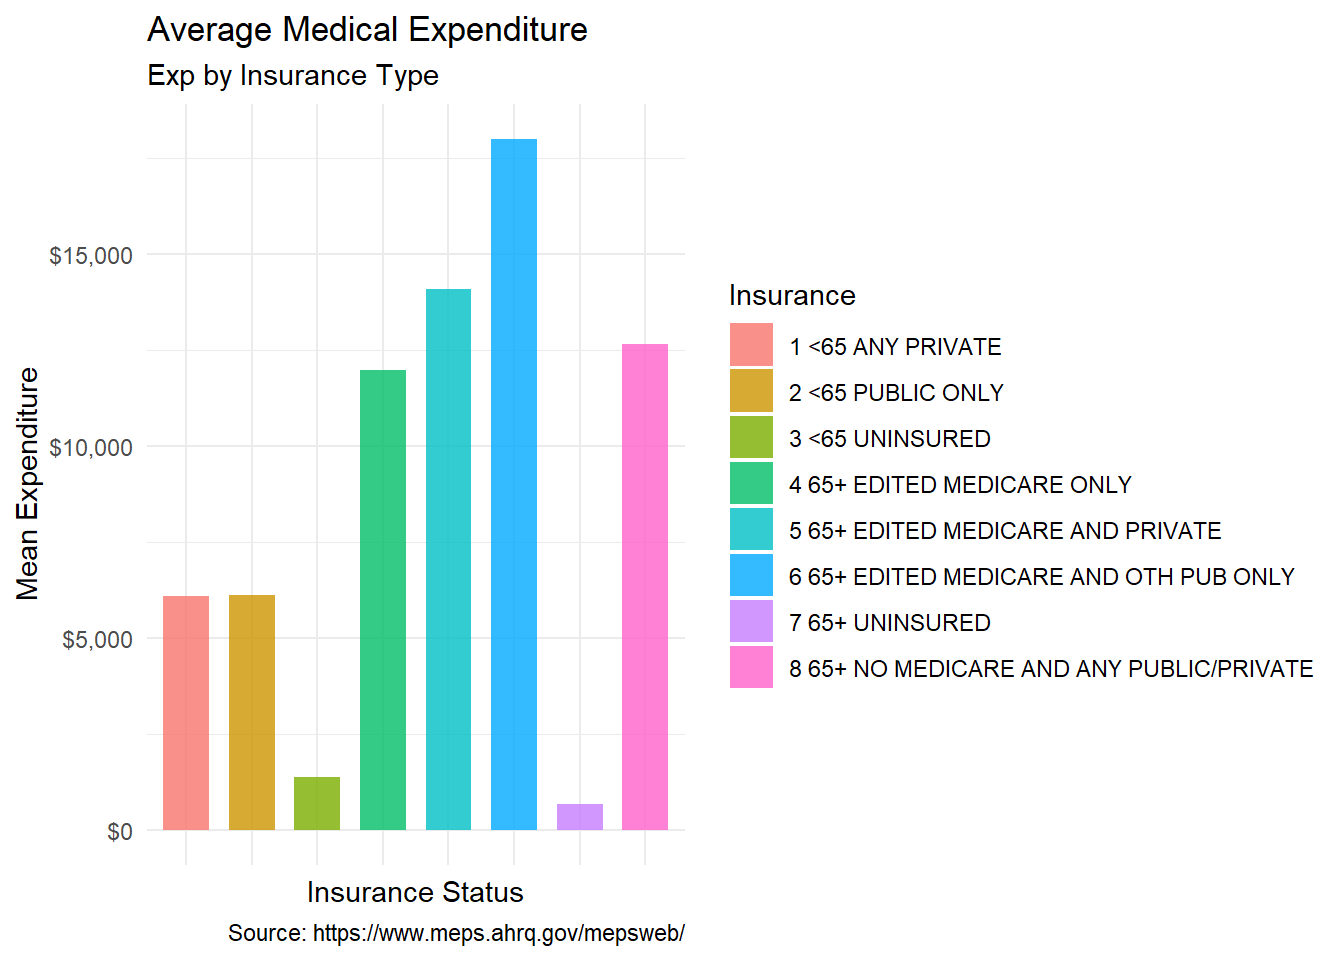
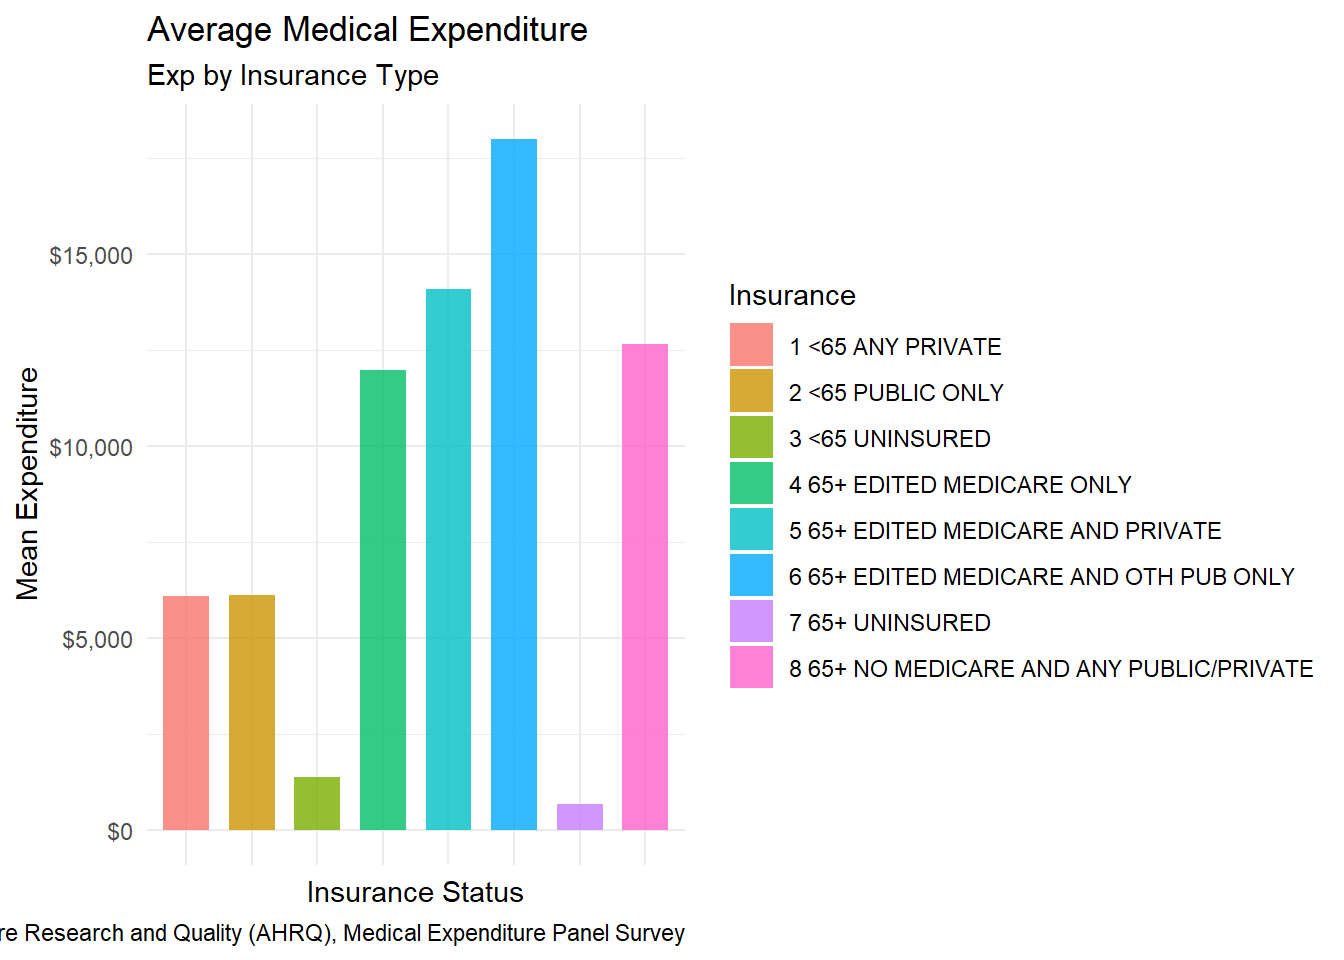
Render Again
The rendering problem on my PC is caused by UTF-8 setting. After solving it, I rendered again to generate a new "index.html" and pushed it to my branch on GitHub.

Changed region(s): [[0.0, 0.9375, 0.5, 1.0]]

diff --git a/index.html b/index.html
@@ -2,7 +2,7 @@
 <html xmlns="http://www.w3.org/1999/xhtml" lang="en" xml:lang="en"><head>
 
 <meta charset="utf-8">
-<meta name="generator" content="quarto-1.8.24">
+<meta name="generator" content="quarto-1.8.25">
 
 <meta name="viewport" content="width=device-width, initial-scale=1.0, user-scalable=yes">
 
@@ -67,7 +67,7 @@ pre > code.sourceCode > span > a:first-child::before { text-decoration: underlin
 <script src="index_files/libs/quarto-html/tippy.umd.min.js"></script>
 <script src="index_files/libs/quarto-html/anchor.min.js"></script>
 <link href="index_files/libs/quarto-html/tippy.css" rel="stylesheet">
-<link href="index_files/libs/quarto-html/quarto-syntax-highlighting-dc55a5b9e770e841cd82e46aadbfb9b0.css" rel="stylesheet" id="quarto-text-highlighting-styles">
+<link href="index_files/libs/quarto-html/quarto-syntax-highlighting-7b89279ff1a6dce999919e0e67d4d9ec.css" rel="stylesheet" id="quarto-text-highlighting-styles">
 <script src="index_files/libs/bootstrap/bootstrap.min.js"></script>
 <link href="index_files/libs/bootstrap/bootstrap-icons.css" rel="stylesheet">
 <link href="index_files/libs/bootstrap/bootstrap-9e3ffae467580fdb927a41352e75a2e0.min.css" rel="stylesheet" append-hash="true" id="quarto-bootstrap" data-mode="light">
@@ -117,7 +117,9 @@ pre > code.sourceCode > span > a:first-child::before { text-decoration: underlin
 <span id="cb1-8"><a href="#cb1-8" aria-hidden="true" tabindex="-1"></a></span>
 <span id="cb1-9"><a href="#cb1-9" aria-hidden="true" tabindex="-1"></a>data <span class="ot">&lt;-</span> <span class="fu">read.csv</span>(<span class="st">"C:/Users/Whatsername/Desktop/Intro to Data Science/assignment04/MEPS2022.csv"</span>)</span>
 <span id="cb1-10"><a href="#cb1-10" aria-hidden="true" tabindex="-1"></a></span>
-<span id="cb1-11"><a href="#cb1-11" aria-hidden="true" tabindex="-1"></a>data <span class="ot">&lt;-</span> <span class="fu">select</span>(data, AGE22X, TOTEXP22, RACETHX, HWELLSPK, SEX, INSURC22, OBTOTV22, ERTOT22)</span></code></pre></div><button title="Copy to Clipboard" class="code-copy-button"><i class="bi"></i></button></div>
+<span id="cb1-11"><a href="#cb1-11" aria-hidden="true" tabindex="-1"></a><span class="co">#Due to the federal government shutdown, the data's URL is currently inaccessible. So, we set up totally identical folder paths on our respective PCs to allow the code to load the same csv file. (Qingfeng Yu, Oct 5)</span></span>
+<span id="cb1-12"><a href="#cb1-12" aria-hidden="true" tabindex="-1"></a></span>
+<span id="cb1-13"><a href="#cb1-13" aria-hidden="true" tabindex="-1"></a>data <span class="ot">&lt;-</span> <span class="fu">select</span>(data, AGE22X, TOTEXP22, RACETHX, HWELLSPK, SEX, INSURC22, OBTOTV22, ERTOT22, INDCAT53)</span></code></pre></div><button title="Copy to Clipboard" class="code-copy-button"><i class="bi"></i></button></div>
 </div>
 <div class="cell">
 <div class="code-copy-outer-scaffold"><div class="sourceCode cell-code" id="cb2"><pre class="sourceCode r code-with-copy"><code class="sourceCode r"><span id="cb2-1"><a href="#cb2-1" aria-hidden="true" tabindex="-1"></a><span class="co"># 1st visualization</span></span>
@@ -132,7 +134,7 @@ pre > code.sourceCode > span > a:first-child::before { text-decoration: underlin
 <span id="cb2-10"><a href="#cb2-10" aria-hidden="true" tabindex="-1"></a>             <span class="fu">labs</span>(<span class="at">x =</span> <span class="st">"Insurance Status"</span>, <span class="at">y =</span> <span class="st">"Mean Expenditure"</span>, <span class="at">fill =</span> <span class="st">"Insurance"</span>, </span>
 <span id="cb2-11"><a href="#cb2-11" aria-hidden="true" tabindex="-1"></a>                  <span class="at">title =</span> <span class="st">"Average Medical Expenditure"</span>, </span>
 <span id="cb2-12"><a href="#cb2-12" aria-hidden="true" tabindex="-1"></a>                  <span class="at">subtitle =</span> <span class="st">"Exp by Insurance Type"</span>, </span>
-<span id="cb2-13"><a href="#cb2-13" aria-hidden="true" tabindex="-1"></a>                  <span class="at">caption =</span> <span class="st">"Source: https://www.meps.ahrq.gov/mepsweb/"</span>) <span class="sc">+</span> </span>
+<span id="cb2-13"><a href="#cb2-13" aria-hidden="true" tabindex="-1"></a>                  <span class="at">caption =</span> <span class="st">"Source: Agency for Healthcare Research and Quality (AHRQ), Medical Expenditure Panel Survey"</span>) <span class="sc">+</span> </span>
 <span id="cb2-14"><a href="#cb2-14" aria-hidden="true" tabindex="-1"></a>             <span class="fu">theme_minimal</span>() <span class="sc">+</span> </span>
 <span id="cb2-15"><a href="#cb2-15" aria-hidden="true" tabindex="-1"></a>  <span class="fu">theme</span>(<span class="at">axis.text.x =</span> <span class="fu">element_blank</span>())</span></code></pre></div><button title="Copy to Clipboard" class="code-copy-button"><i class="bi"></i></button></div>
 <div class="cell-output-display">
@@ -160,7 +162,7 @@ pre > code.sourceCode > span > a:first-child::before { text-decoration: underlin
 <span id="cb3-12"><a href="#cb3-12" aria-hidden="true" tabindex="-1"></a>       <span class="at">color =</span> <span class="st">"Sex"</span>, </span>
 <span id="cb3-13"><a href="#cb3-13" aria-hidden="true" tabindex="-1"></a>       <span class="at">title =</span> <span class="st">"#Medical Service visit by Age &amp; Sex"</span>, </span>
 <span id="cb3-14"><a href="#cb3-14" aria-hidden="true" tabindex="-1"></a>       <span class="at">subtitle =</span> <span class="st">"Avg. Exp indicated by size of points"</span>, </span>
-<span id="cb3-15"><a href="#cb3-15" aria-hidden="true" tabindex="-1"></a>       <span class="at">caption =</span> <span class="st">"Source: https://www.meps.ahrq.gov/mepsweb/"</span>) <span class="sc">+</span> </span>
+<span id="cb3-15"><a href="#cb3-15" aria-hidden="true" tabindex="-1"></a>       <span class="at">caption =</span> <span class="st">"Source: Agency for Healthcare Research and Quality (AHRQ), Medical Expenditure Panel Survey"</span>) <span class="sc">+</span> </span>
 <span id="cb3-16"><a href="#cb3-16" aria-hidden="true" tabindex="-1"></a>  <span class="fu">theme_minimal</span>()</span></code></pre></div><button title="Copy to Clipboard" class="code-copy-button"><i class="bi"></i></button></div>
 <div class="cell-output-display">
 <div>
@@ -198,7 +200,7 @@ pre > code.sourceCode > span > a:first-child::before { text-decoration: underlin
 <span id="cb4-23"><a href="#cb4-23" aria-hidden="true" tabindex="-1"></a>       <span class="at">fill =</span> <span class="st">"Race/Ethnicity"</span>,</span>
 <span id="cb4-24"><a href="#cb4-24" aria-hidden="true" tabindex="-1"></a>       <span class="at">title =</span> <span class="st">"Insurance Coverage by Race &amp; Age Group"</span>, </span>
 <span id="cb4-25"><a href="#cb4-25" aria-hidden="true" tabindex="-1"></a>       <span class="at">subtitle =</span> <span class="st">"Insurance including both Public and Private"</span>, </span>
-<span id="cb4-26"><a href="#cb4-26" aria-hidden="true" tabindex="-1"></a>       <span class="at">caption =</span> <span class="st">"Source: https://www.meps.ahrq.gov/mepsweb/"</span>) <span class="sc">+</span></span>
+<span id="cb4-26"><a href="#cb4-26" aria-hidden="true" tabindex="-1"></a>       <span class="at">caption =</span> <span class="st">"Source: Agency for Healthcare Research and Quality (AHRQ), Medical Expenditure Panel Survey"</span>) <span class="sc">+</span></span>
 <span id="cb4-27"><a href="#cb4-27" aria-hidden="true" tabindex="-1"></a>  <span class="fu">theme_minimal</span>() <span class="sc">+</span></span>
 <span id="cb4-28"><a href="#cb4-28" aria-hidden="true" tabindex="-1"></a>  <span class="fu">theme</span>(<span class="at">axis.text.x =</span> <span class="fu">element_blank</span>())</span></code></pre></div><button title="Copy to Clipboard" class="code-copy-button"><i class="bi"></i></button></div>
 <div class="cell-output-display">
@@ -211,6 +213,74 @@ pre > code.sourceCode > span > a:first-child::before { text-decoration: underlin
 </div>
 <p>Interpretation:</p>
 <p>For age above and under 65, we can see very different insurance coverage status. Asian people has the highest insurance coverage among people who are under 65, and Hispanic people has the lowest - this could be driven by average income and job characteristics. The distribution among people who are 65 and above is interesting: Asian people become the lowest insured, other races do not differ much. At age 65 and above, people generally become eligible for Medicare, which raises coverage across all groups, but the reverse trend for Asian is curious. In my opinion, this could be driven by large portion of foreign-born Asian seniors who might not be eligible for Medicare. While we need further investigation, it should raise alerts for policy makers - is the current Medicare eligibility really appropriate?</p>
+<div class="cell">
+<div class="code-copy-outer-scaffold"><div class="sourceCode cell-code" id="cb5"><pre class="sourceCode r code-with-copy"><code class="sourceCode r"><span id="cb5-1"><a href="#cb5-1" aria-hidden="true" tabindex="-1"></a><span class="co"># 4th visualization</span></span>
+<span id="cb5-2"><a href="#cb5-2" aria-hidden="true" tabindex="-1"></a></span>
+<span id="cb5-3"><a href="#cb5-3" aria-hidden="true" tabindex="-1"></a><span class="fu">library</span>(ggrepel)</span>
+<span id="cb5-4"><a href="#cb5-4" aria-hidden="true" tabindex="-1"></a></span>
+<span id="cb5-5"><a href="#cb5-5" aria-hidden="true" tabindex="-1"></a>visit_expense_by_job <span class="ot">&lt;-</span> data <span class="sc">|&gt;</span></span>
+<span id="cb5-6"><a href="#cb5-6" aria-hidden="true" tabindex="-1"></a>  dplyr<span class="sc">::</span><span class="fu">select</span>(AGE22X, INDCAT53, OBTOTV22, TOTEXP22) <span class="sc">|&gt;</span></span>
+<span id="cb5-7"><a href="#cb5-7" aria-hidden="true" tabindex="-1"></a>  <span class="fu">mutate</span>(</span>
+<span id="cb5-8"><a href="#cb5-8" aria-hidden="true" tabindex="-1"></a>    <span class="at">AGE22X   =</span> <span class="fu">ifelse</span>(AGE22X   <span class="sc">&lt;</span> <span class="dv">0</span>, <span class="cn">NA</span>, AGE22X),</span>
+<span id="cb5-9"><a href="#cb5-9" aria-hidden="true" tabindex="-1"></a>    <span class="at">INDCAT53 =</span> <span class="fu">ifelse</span>(INDCAT53 <span class="sc">&lt;</span> <span class="dv">0</span>, <span class="cn">NA</span>, INDCAT53),</span>
+<span id="cb5-10"><a href="#cb5-10" aria-hidden="true" tabindex="-1"></a>    <span class="at">OBTOTV22 =</span> <span class="fu">ifelse</span>(OBTOTV22 <span class="sc">&lt;</span> <span class="dv">0</span>, <span class="cn">NA</span>, OBTOTV22),</span>
+<span id="cb5-11"><a href="#cb5-11" aria-hidden="true" tabindex="-1"></a>    <span class="at">TOTEXP22 =</span> <span class="fu">ifelse</span>(TOTEXP22 <span class="sc">&lt;</span> <span class="dv">0</span>, <span class="cn">NA</span>, TOTEXP22),</span>
+<span id="cb5-12"><a href="#cb5-12" aria-hidden="true" tabindex="-1"></a>    <span class="at">age65_lbl =</span> <span class="fu">if_else</span>(AGE22X <span class="sc">&gt;=</span> <span class="dv">65</span>, <span class="st">"65+"</span>, <span class="st">"&lt;65"</span>)</span>
+<span id="cb5-13"><a href="#cb5-13" aria-hidden="true" tabindex="-1"></a>  ) <span class="sc">|&gt;</span></span>
+<span id="cb5-14"><a href="#cb5-14" aria-hidden="true" tabindex="-1"></a>  <span class="fu">filter</span>(<span class="sc">!</span><span class="fu">is.na</span>(INDCAT53), <span class="sc">!</span><span class="fu">is.na</span>(OBTOTV22), <span class="sc">!</span><span class="fu">is.na</span>(TOTEXP22), <span class="sc">!</span><span class="fu">is.na</span>(age65_lbl))</span>
+<span id="cb5-15"><a href="#cb5-15" aria-hidden="true" tabindex="-1"></a></span>
+<span id="cb5-16"><a href="#cb5-16" aria-hidden="true" tabindex="-1"></a>plot_data <span class="ot">&lt;-</span> visit_expense_by_job <span class="sc">|&gt;</span></span>
+<span id="cb5-17"><a href="#cb5-17" aria-hidden="true" tabindex="-1"></a>  <span class="fu">group_by</span>(age65_lbl, INDCAT53) <span class="sc">|&gt;</span></span>
+<span id="cb5-18"><a href="#cb5-18" aria-hidden="true" tabindex="-1"></a>  <span class="fu">summarise</span>(</span>
+<span id="cb5-19"><a href="#cb5-19" aria-hidden="true" tabindex="-1"></a>    <span class="at">mean_visits =</span> <span class="fu">mean</span>(OBTOTV22, <span class="at">na.rm =</span> <span class="cn">TRUE</span>),</span>
+<span id="cb5-20"><a href="#cb5-20" aria-hidden="true" tabindex="-1"></a>    <span class="at">mean_exp    =</span> <span class="fu">mean</span>(TOTEXP22,  <span class="at">na.rm =</span> <span class="cn">TRUE</span>),</span>
+<span id="cb5-21"><a href="#cb5-21" aria-hidden="true" tabindex="-1"></a>    <span class="at">.groups =</span> <span class="st">"drop"</span></span>
+<span id="cb5-22"><a href="#cb5-22" aria-hidden="true" tabindex="-1"></a>  ) <span class="sc">|&gt;</span></span>
+<span id="cb5-23"><a href="#cb5-23" aria-hidden="true" tabindex="-1"></a>  <span class="fu">mutate</span>(</span>
+<span id="cb5-24"><a href="#cb5-24" aria-hidden="true" tabindex="-1"></a>    <span class="at">indcat53_code  =</span> <span class="fu">parse_number</span>(<span class="fu">as.character</span>(INDCAT53)),</span>
+<span id="cb5-25"><a href="#cb5-25" aria-hidden="true" tabindex="-1"></a>    <span class="at">age65_lbl =</span> <span class="fu">factor</span>(age65_lbl, <span class="at">levels =</span> <span class="fu">c</span>(<span class="st">"&lt;65"</span>,<span class="st">"65+"</span>))</span>
+<span id="cb5-26"><a href="#cb5-26" aria-hidden="true" tabindex="-1"></a>  )</span>
+<span id="cb5-27"><a href="#cb5-27" aria-hidden="true" tabindex="-1"></a></span>
+<span id="cb5-28"><a href="#cb5-28" aria-hidden="true" tabindex="-1"></a>industry_labels <span class="ot">&lt;-</span> <span class="fu">c</span>(</span>
+<span id="cb5-29"><a href="#cb5-29" aria-hidden="true" tabindex="-1"></a>  <span class="st">"1 Natural resources"</span>,<span class="st">"2 Mining"</span>,<span class="st">"3 Construction"</span>,<span class="st">"4 Manufacturing"</span>,</span>
+<span id="cb5-30"><a href="#cb5-30" aria-hidden="true" tabindex="-1"></a>  <span class="st">"5 Wholesale &amp; retail"</span>,<span class="st">"6 Transportation &amp; utilities"</span>,<span class="st">"7 Information"</span>,</span>
+<span id="cb5-31"><a href="#cb5-31" aria-hidden="true" tabindex="-1"></a>  <span class="st">"8 Financial activities"</span>,<span class="st">"9 Prof. &amp; business services"</span>,</span>
+<span id="cb5-32"><a href="#cb5-32" aria-hidden="true" tabindex="-1"></a>  <span class="st">"10 Education/Health/Social"</span>,<span class="st">"11 Leisure &amp; hospitality"</span>,</span>
+<span id="cb5-33"><a href="#cb5-33" aria-hidden="true" tabindex="-1"></a>  <span class="st">"12 Other services"</span>,<span class="st">"13 Public administration"</span>,<span class="st">"14 Military"</span>,<span class="st">"15 Unclassifiable"</span></span>
+<span id="cb5-34"><a href="#cb5-34" aria-hidden="true" tabindex="-1"></a>)</span>
+<span id="cb5-35"><a href="#cb5-35" aria-hidden="true" tabindex="-1"></a></span>
+<span id="cb5-36"><a href="#cb5-36" aria-hidden="true" tabindex="-1"></a><span class="fu">ggplot</span>(plot_data,</span>
+<span id="cb5-37"><a href="#cb5-37" aria-hidden="true" tabindex="-1"></a>       <span class="fu">aes</span>(<span class="at">x =</span> mean_visits, <span class="at">y =</span> mean_exp,</span>
+<span id="cb5-38"><a href="#cb5-38" aria-hidden="true" tabindex="-1"></a>           <span class="at">color =</span> age65_lbl,</span>
+<span id="cb5-39"><a href="#cb5-39" aria-hidden="true" tabindex="-1"></a>           <span class="at">shape =</span> <span class="fu">factor</span>(indcat53_code, <span class="at">levels =</span> <span class="dv">1</span><span class="sc">:</span><span class="dv">15</span>))) <span class="sc">+</span></span>
+<span id="cb5-40"><a href="#cb5-40" aria-hidden="true" tabindex="-1"></a>  <span class="fu">geom_point</span>(<span class="at">size =</span> <span class="dv">3</span>) <span class="sc">+</span></span>
+<span id="cb5-41"><a href="#cb5-41" aria-hidden="true" tabindex="-1"></a>  <span class="fu">geom_text_repel</span>(<span class="fu">aes</span>(<span class="at">label =</span> indcat53_code), <span class="at">size =</span> <span class="dv">3</span>, <span class="at">show.legend =</span> <span class="cn">FALSE</span>) <span class="sc">+</span></span>
+<span id="cb5-42"><a href="#cb5-42" aria-hidden="true" tabindex="-1"></a>  <span class="fu">facet_wrap</span>(<span class="sc">~</span> age65_lbl, <span class="at">nrow =</span> <span class="dv">1</span>) <span class="sc">+</span></span>
+<span id="cb5-43"><a href="#cb5-43" aria-hidden="true" tabindex="-1"></a>  <span class="fu">scale_color_manual</span>(<span class="at">values =</span> <span class="fu">c</span>(<span class="st">"&lt;65"</span><span class="ot">=</span><span class="st">"blue"</span>,<span class="st">"65+"</span><span class="ot">=</span><span class="st">"red"</span>), <span class="at">name =</span> <span class="st">"Age Group"</span>) <span class="sc">+</span></span>
+<span id="cb5-44"><a href="#cb5-44" aria-hidden="true" tabindex="-1"></a>  <span class="fu">scale_shape_manual</span>(</span>
+<span id="cb5-45"><a href="#cb5-45" aria-hidden="true" tabindex="-1"></a>    <span class="at">values =</span> <span class="fu">rep</span>(<span class="dv">16</span>, <span class="dv">15</span>),</span>
+<span id="cb5-46"><a href="#cb5-46" aria-hidden="true" tabindex="-1"></a>    <span class="at">breaks =</span> <span class="fu">as.character</span>(<span class="dv">1</span><span class="sc">:</span><span class="dv">15</span>),</span>
+<span id="cb5-47"><a href="#cb5-47" aria-hidden="true" tabindex="-1"></a>    <span class="at">labels =</span> industry_labels,</span>
+<span id="cb5-48"><a href="#cb5-48" aria-hidden="true" tabindex="-1"></a>    <span class="at">name   =</span> <span class="st">"Industry Code"</span></span>
+<span id="cb5-49"><a href="#cb5-49" aria-hidden="true" tabindex="-1"></a>  ) <span class="sc">+</span></span>
+<span id="cb5-50"><a href="#cb5-50" aria-hidden="true" tabindex="-1"></a>  <span class="fu">scale_y_continuous</span>(<span class="at">labels =</span> dollar) <span class="sc">+</span></span>
+<span id="cb5-51"><a href="#cb5-51" aria-hidden="true" tabindex="-1"></a>  <span class="fu">labs</span>(</span>
+<span id="cb5-52"><a href="#cb5-52" aria-hidden="true" tabindex="-1"></a>    <span class="at">title   =</span> <span class="st">"Doctor Visits vs. Total Expenditure by Industry"</span>,</span>
+<span id="cb5-53"><a href="#cb5-53" aria-hidden="true" tabindex="-1"></a>    <span class="at">x       =</span> <span class="st">"Mean office-based visits (OBTOTV22)"</span>,</span>
+<span id="cb5-54"><a href="#cb5-54" aria-hidden="true" tabindex="-1"></a>    <span class="at">y       =</span> <span class="st">"Mean total medical expenditure (TOTEXP22)"</span>,</span>
+<span id="cb5-55"><a href="#cb5-55" aria-hidden="true" tabindex="-1"></a>    <span class="at">caption =</span> <span class="st">"Source: Agency for Healthcare Research and Quality (AHRQ), Medical Expenditure Panel Survey"</span></span>
+<span id="cb5-56"><a href="#cb5-56" aria-hidden="true" tabindex="-1"></a>  ) <span class="sc">+</span></span>
+<span id="cb5-57"><a href="#cb5-57" aria-hidden="true" tabindex="-1"></a>  <span class="fu">theme_minimal</span>()</span></code></pre></div><button title="Copy to Clipboard" class="code-copy-button"><i class="bi"></i></button></div>
+<div class="cell-output-display">
+<div>
+<figure class="figure">
+<p><img src="index_files/figure-html/unnamed-chunk-5-1.png" class="img-fluid figure-img" width="672"></p>
+</figure>
+</div>
+</div>
+</div>
+<p>Interpretation:</p>
+<p>This visualization aims to explore the change in health condition after retirement by all industries. Number of medical visits and average medical expenditure are two major indicators that can reflect one’s health. In manufacturing(4) and information(7) industries, people’s health condition do not change drastically after retirement. However, in natural resources(1) and Wholesales/retail(5) industries, people visit doctors more frequently and spend more money on medical services after retirement. The extreme divergence in health status before and after retirement highlights the need to strengthen labor protections and health insurance in certain industries.</p>
 
 </main>
 <!-- /main column -->

diff --git a/index_files/libs/quarto-html/quarto-syntax-highlighting-7b89279ff1a6dce999919e0e67d4d9ec.css b/index_files/libs/quarto-html/quarto-syntax-highlighting-7b89279ff1a6dce999919e0e67d4d9ec.css
@@ -1,0 +1,236 @@
+/* quarto syntax highlight colors */
+:root {
+  --quarto-hl-ot-color: #003B4F;
+  --quarto-hl-at-color: #657422;
+  --quarto-hl-ss-color: #20794D;
+  --quarto-hl-an-color: #5E5E5E;
+  --quarto-hl-fu-color: #4758AB;
+  --quarto-hl-st-color: #20794D;
+  --quarto-hl-cf-color: #003B4F;
+  --quarto-hl-op-color: #5E5E5E;
+  --quarto-hl-er-color: #AD0000;
+  --quarto-hl-bn-color: #AD0000;
+  --quarto-hl-al-color: #AD0000;
+  --quarto-hl-va-color: #111111;
+  --quarto-hl-bu-color: inherit;
+  --quarto-hl-ex-color: inherit;
+  --quarto-hl-pp-color: #AD0000;
+  --quarto-hl-in-color: #5E5E5E;
+  --quarto-hl-vs-color: #20794D;
+  --quarto-hl-wa-color: #5E5E5E;
+  --quarto-hl-do-color: #5E5E5E;
+  --quarto-hl-im-color: #00769E;
+  --quarto-hl-ch-color: #20794D;
+  --quarto-hl-dt-color: #AD0000;
+  --quarto-hl-fl-color: #AD0000;
+  --quarto-hl-co-color: #5E5E5E;
+  --quarto-hl-cv-color: #5E5E5E;
+  --quarto-hl-cn-color: #8f5902;
+  --quarto-hl-sc-color: #5E5E5E;
+  --quarto-hl-dv-color: #AD0000;
+  --quarto-hl-kw-color: #003B4F;
+}
+
+/* other quarto variables */
+:root {
+  --quarto-font-monospace: SFMono-Regular, Menlo, Monaco, Consolas, "Liberation Mono", "Courier New", monospace;
+}
+
+/* syntax highlight based on Pandoc's rules */
+pre > code.sourceCode > span {
+  color: #003B4F;
+}
+
+code.sourceCode > span {
+  color: #003B4F;
+}
+
+div.sourceCode,
+div.sourceCode pre.sourceCode {
+  color: #003B4F;
+}
+
+/* Normal */
+code span {
+  color: #003B4F;
+}
+
+/* Alert */
+code span.al {
+  color: #AD0000;
+  font-style: inherit;
+}
+
+/* Annotation */
+code span.an {
+  color: #5E5E5E;
+  font-style: inherit;
+}
+
+/* Attribute */
+code span.at {
+  color: #657422;
+  font-style: inherit;
+}
+
+/* BaseN */
+code span.bn {
+  color: #AD0000;
+  font-style: inherit;
+}
+
+/* BuiltIn */
+code span.bu {
+  font-style: inherit;
+}
+
+/* ControlFlow */
+code span.cf {
+  color: #003B4F;
+  font-weight: bold;
+  font-style: inherit;
+}
+
+/* Char */
+code span.ch {
+  color: #20794D;
+  font-style: inherit;
+}
+
+/* Constant */
+code span.cn {
+  color: #8f5902;
+  font-style: inherit;
+}
+
+/* Comment */
+code span.co {
+  color: #5E5E5E;
+  font-style: inherit;
+}
+
+/* CommentVar */
+code span.cv {
+  color: #5E5E5E;
+  font-style: italic;
+}
+
+/* Documentation */
+code span.do {
+  color: #5E5E5E;
+  font-style: italic;
+}
+
+/* DataType */
+code span.dt {
+  color: #AD0000;
+  font-style: inherit;
+}
+
+/* DecVal */
+code span.dv {
+  color: #AD0000;
+  font-style: inherit;
+}
+
+/* Error */
+code span.er {
+  color: #AD0000;
+  font-style: inherit;
+}
+
+/* Extension */
+code span.ex {
+  font-style: inherit;
+}
+
+/* Float */
+code span.fl {
+  color: #AD0000;
+  font-style: inherit;
+}
+
+/* Function */
+code span.fu {
+  color: #4758AB;
+  font-style: inherit;
+}
+
+/* Import */
+code span.im {
+  color: #00769E;
+  font-style: inherit;
+}
+
+/* Information */
+code span.in {
+  color: #5E5E5E;
+  font-style: inherit;
+}
+
+/* Keyword */
+code span.kw {
+  color: #003B4F;
+  font-weight: bold;
+  font-style: inherit;
+}
+
+/* Operator */
+code span.op {
+  color: #5E5E5E;
+  font-style: inherit;
+}
+
+/* Other */
+code span.ot {
+  color: #003B4F;
+  font-style: inherit;
+}
+
+/* Preprocessor */
+code span.pp {
+  color: #AD0000;
+  font-style: inherit;
+}
+
+/* SpecialChar */
+code span.sc {
+  color: #5E5E5E;
+  font-style: inherit;
+}
+
+/* SpecialString */
+code span.ss {
+  color: #20794D;
+  font-style: inherit;
+}
+
+/* String */
+code span.st {
+  color: #20794D;
+  font-style: inherit;
+}
+
+/* Variable */
+code span.va {
+  color: #111111;
+  font-style: inherit;
+}
+
+/* VerbatimString */
+code span.vs {
+  color: #20794D;
+  font-style: inherit;
+}
+
+/* Warning */
+code span.wa {
+  color: #5E5E5E;
+  font-style: italic;
+}
+
+.prevent-inlining {
+  content: "</";
+}
+
+/*# sourceMappingURL=3944bc705cfaf4c80e56f77c5205168a.css.map */
